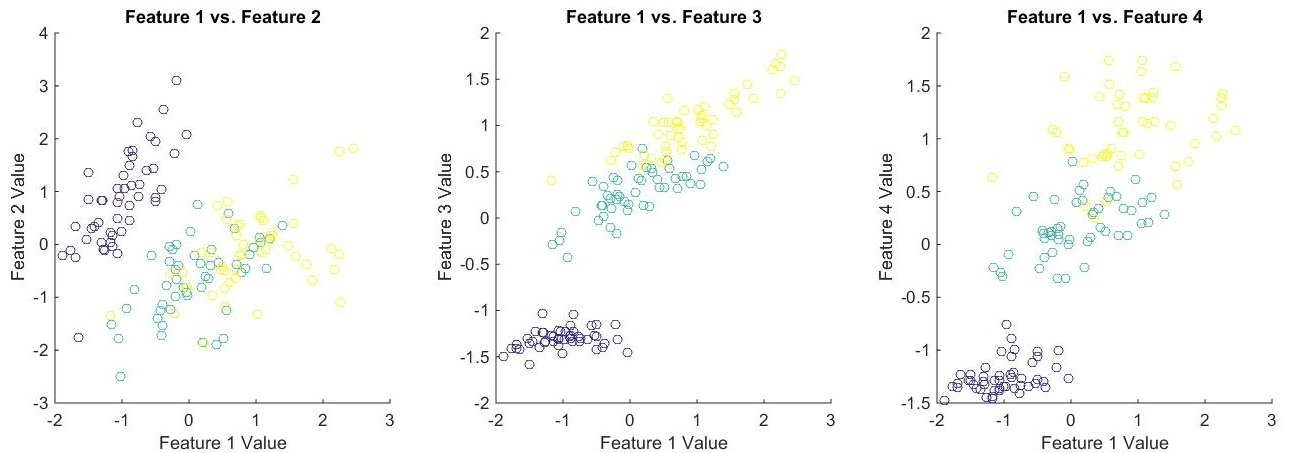
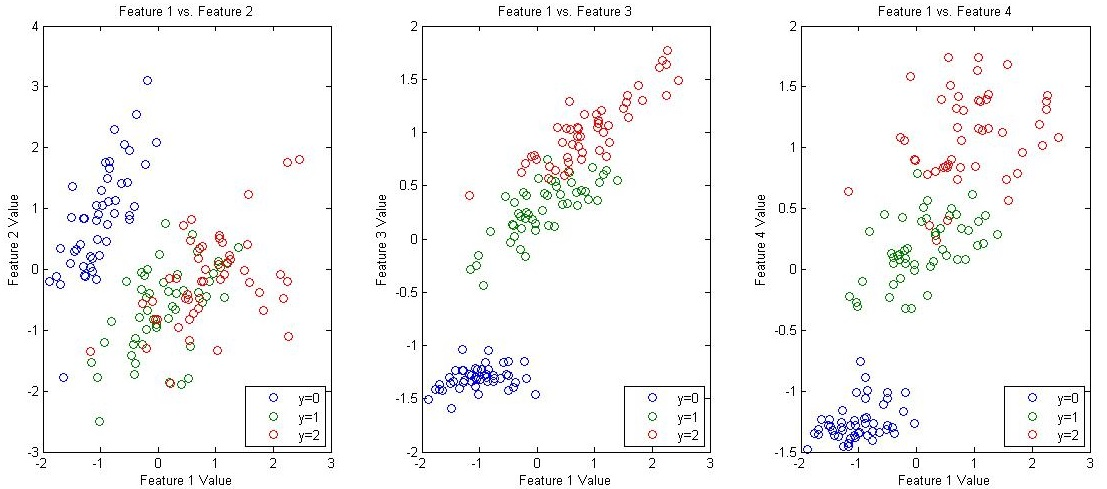
better scatter plots with legend

diff --git a/Homework1/HW1/prob1.m b/Homework1/HW1/prob1.m
@@ -63,21 +63,31 @@ plot(normalize1(y==0),normalize2(y==0),'o');
 hold all
 plot(normalize1(y==1),normalize2(y==1),'o');
 plot(normalize1(y==2),normalize2(y==2),'o');
-legend('0','1','2');
+legend('y=0','y=1','y=2','Location','SouthEast');
 title('Feature 1 vs. Feature 2');
 xlabel('Feature 1 Value');
 ylabel('Feature 2 Value');
 hold off
 subplot(1,3,2)
-scatter(normalize1,normalize3,size,y);
+plot(normalize1(y==0),normalize3(y==0),'o');
+hold all
+plot(normalize1(y==1),normalize3(y==1),'o');
+plot(normalize1(y==2),normalize3(y==2),'o');
+legend('y=0','y=1','y=2','Location','SouthEast');
 title('Feature 1 vs. Feature 3');
 xlabel('Feature 1 Value');
 ylabel('Feature 3 Value');
+hold off
 subplot(1,3,3)
-scatter(normalize1,normalize4,size,y);
+plot(normalize1(y==0),normalize4(y==0),'o');
+hold all
+plot(normalize1(y==1),normalize4(y==1),'o');
+plot(normalize1(y==2),normalize4(y==2),'o');
+legend('y=0','y=1','y=2','Location','SouthEast');
 title('Feature 1 vs. Feature 4');
 xlabel('Feature 1 Value');
 ylabel('Feature 4 Value');
+hold off
 
 
 
